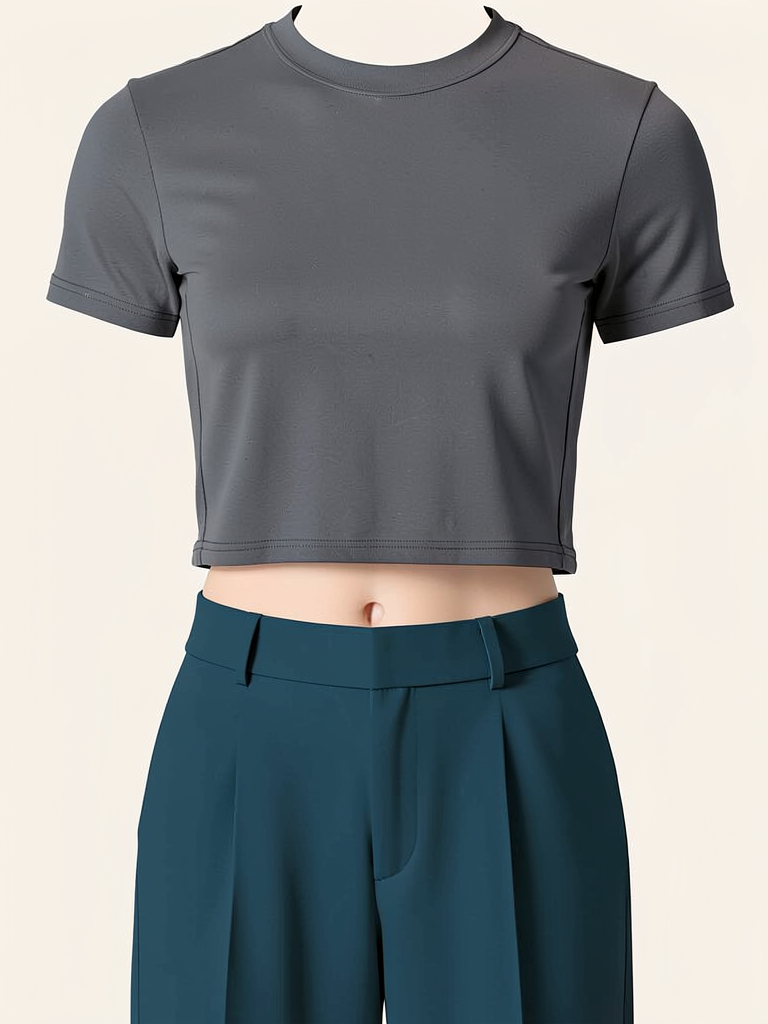
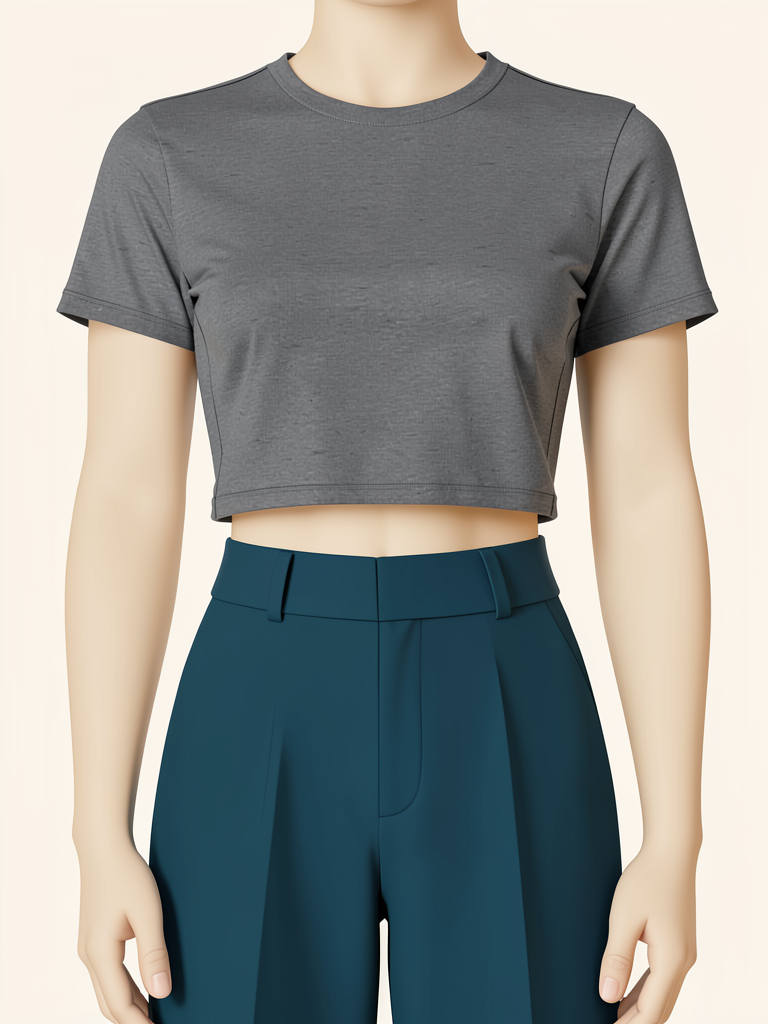
feat(p7-5-2): refresh approved prop references

diff --git a/docs/assets/part-07/chapter-05/p7_5_2_generate_no_style_prop_masters.py b/docs/assets/part-07/chapter-05/p7_5_2_generate_no_style_prop_masters.py
@@ -1,5 +1,5 @@
 #!/usr/bin/env python3
-"""Generate selected prompt-only candidates for Mira's prop references."""
+"""Generate selected no-style candidates for Mira's prop references."""
 
 from __future__ import annotations
 
@@ -10,11 +10,14 @@ from pathlib import Path
 
 import torch
 from diffusers import Flux2KleinPipeline
+from PIL import Image
 
 
 ROOT = Path(__file__).resolve().parent
 MODEL_ID = "black-forest-labs/FLUX.2-klein-4B"
+PROP_SEED = 62294
 DEFAULT_REPORT = ROOT / "p7-5-2-prop-generation-candidate-review.json"
+CROP_TOP_WAIST_REFERENCE = ROOT / "p7-5-2-outfit-crop-top-waist-reference.png"
 
 JACKET_COMMON_CONTRACT = (
     "One isolated very short white cropped utility jacket in a clean {view} product view "
@@ -100,79 +103,98 @@ def layered_outfit_prompt(view: str) -> str:
 PROPS = {
     "jacket": {
         "id": "jacket",
-        "seed": 62280,
+        "seed": PROP_SEED,
         "output": "p7-5-2-no-style-prop-jacket-candidate.png",
         "size": (768, 1024),
         "prompt": jacket_prompt("front"),
     },
     "jacket_rear": {
         "id": "jacket_rear",
-        "seed": 62284,
+        "seed": PROP_SEED,
         "output": "p7-5-2-no-style-prop-jacket-rear-candidate.png",
         "size": (768, 1024),
         "prompt": jacket_prompt("rear"),
     },
     "jacket_crop_top_front": {
         "id": "jacket_crop_top_front",
-        "seed": 62285,
+        "seed": PROP_SEED,
         "output": "p7-5-2-no-style-prop-jacket-crop-top-front-candidate.png",
         "size": (768, 1024),
-        "prompt": layered_outfit_prompt("front"),
+        "references": (CROP_TOP_WAIST_REFERENCE,),
+        "prompt": (
+            f"{layered_outfit_prompt('front')} Use the supplied crop-top-to-waistband reference as the authoritative "
+            "length contract for the gray crop top: keep its high hem and exposed midriff band; do not lengthen it to "
+            "the trouser waistband, navel, hips, or below the upper abdomen."
+        ),
     },
     "jacket_crop_top_rear": {
         "id": "jacket_crop_top_rear",
-        "seed": 62286,
+        "seed": PROP_SEED,
         "output": "p7-5-2-no-style-prop-jacket-crop-top-rear-candidate.png",
         "size": (768, 1024),
         "prompt": layered_outfit_prompt("rear"),
     },
     "complete_outfit_front_hip": {
         "id": "complete_outfit_front_hip",
-        "seed": 62287,
+        "seed": PROP_SEED,
         "output": "p7-5-2-no-style-prop-complete-outfit-front-hip-candidate.png",
         "size": (768, 1152),
-        "prompt": COMPLETE_OUTFIT_FRONT_HIP_CONTRACT,
+        "references": (CROP_TOP_WAIST_REFERENCE,),
+        "prompt": (
+            f"{COMPLETE_OUTFIT_FRONT_HIP_CONTRACT} Use the supplied crop-top-to-waistband reference as the authoritative "
+            "gray crop-top length contract. Keep its high hem and exposed midriff band; do not lengthen it to the trouser "
+            "waistband, navel, hips, or below the upper abdomen."
+        ),
     },
     "complete_outfit_rear_hip": {
         "id": "complete_outfit_rear_hip",
-        "seed": 62288,
+        "seed": PROP_SEED,
         "output": "p7-5-2-no-style-prop-complete-outfit-rear-hip-candidate.png",
         "size": (768, 1152),
         "prompt": COMPLETE_OUTFIT_REAR_HIP_CONTRACT,
     },
     "trousers": {
         "id": "trousers",
-        "seed": 62281,
+        "seed": PROP_SEED,
         "output": "p7-5-2-no-style-prop-trousers-candidate.png",
         "size": (768, 1024),
         "prompt": "One isolated pair of deep teal blue high-waisted wide-leg trousers in a clean front view on a plain off-white background. Use one blue-dominant dark teal base color, neither green turquoise nor gray. Belt loops, center fly, crisp vertical seams, straight wide legs, and hems above the shoe collar. Clean product illustration. No person, hanger, text, logo, or other object.",
     },
     "shoes": {
         "id": "shoes",
-        "seed": 62282,
+        "seed": PROP_SEED,
         "output": "p7-5-2-no-style-prop-shoes-candidate.png",
         "size": (768, 768),
         "prompt": "One matching pair of plain white low-top lace-up sneakers, arranged in a clean three-quarter product view on a plain off-white background. Rounded toe caps, white laces, white rubber soles, and minimal stitching. Clean product illustration. No person, text, logo, or other object.",
     },
     "crossbody_bag": {
         "id": "crossbody_bag",
-        "seed": 62283,
+        "seed": PROP_SEED,
         "output": "p7-5-2-no-style-prop-crossbody-bag-candidate.png",
         "size": (768, 768),
         "prompt": "One isolated compact deep-navy woven-canvas crossbody bag in a clean three-quarter front view on a plain off-white background. Small horizontal rounded flap, visible textile weave, stitched seams, reinforced strap tabs, charcoal adjustable canvas strap, and one small silver clasp. Clean product illustration. No leather, person, text, logo, or other object.",
     },
     "crop_top_waist_relation": {
         "id": "crop_top_waist_relation",
-        "seed": 64929,
+        "seed": PROP_SEED,
         "output": "p7-5-2-no-style-prop-gray-cropped-top-candidate.png",
         "size": (768, 1024),
-        "prompt": "Front apparel detail from shoulders through upper hips on a featureless neutral fashion torso against an off-white background. A charcoal-gray regular-fit micro-crop crew-neck T-shirt follows the upper torso with moderate ease: natural shoulder seams at the shoulders, standard short sleeves, clean vertical side seams, and a straight hem. Its hem ends high across the upper abdomen, sixteen centimeters above the navel. Deep teal-blue high-waisted wide-leg trousers have a waistband positioned at the navel. A clear sixteen-centimeter horizontal band of bare midriff visibly separates the cropped hem from the waistband. The short crop length and clean regular fit are the focus. Clean product illustration; no face, hands, text, logo, or other clothing.",
+        "prompt": "Front apparel detail from shoulders through upper hips on a featureless neutral fashion torso against an off-white background. A charcoal-gray regular-fit ultra-short micro-crop crew-neck T-shirt follows the upper torso with moderate ease: natural shoulder seams at the shoulders, standard short sleeves, clean vertical side seams, and a straight hem. Its hem ends immediately below the lower ribcage, twenty centimeters above the navel-height trouser waistband. Deep teal-blue high-waisted wide-leg trousers have a waistband positioned at the navel. A clear twenty-centimeter horizontal band of bare midriff visibly separates the cropped hem from the waistband. Treat this ultra-short crop hem and wide bare-midriff band as mandatory geometry: do not lengthen the crop top to the waistband, navel, hips, upper abdomen, or below the lower ribcage, and do not reduce or remove the exposed band. The ultra-short crop length and clean regular fit are the focus. Clean product illustration; no face, hands, text, logo, or other clothing.",
     },
 }
 
 
 def prompt_word_count(text: str) -> int:
     return len(text.split())
+
+
+def load_reference_images(paths: tuple[Path, ...]) -> list[Image.Image]:
+    """Load the approved crop-length input used by selected front apparel targets."""
+    images = []
+    for path in paths:
+        with Image.open(path) as source:
+            images.append(source.convert("RGB"))
+    return images
 
 
 def main() -> None:
@@ -194,6 +216,15 @@ def main() -> None:
     )
     args = parser.parse_args()
 
+    missing = [
+        path.name
+        for prop_id in args.targets
+        for path in PROPS[prop_id].get("references", ())
+        if not path.is_file()
+    ]
+    if missing:
+        raise FileNotFoundError(", ".join(missing))
+
     if not torch.cuda.is_available():
         raise RuntimeError("CUDA is required")
 
@@ -210,15 +241,19 @@ def main() -> None:
         prop = PROPS[prop_id]
         started = time.monotonic()
         width, height = prop["size"]
-        image = pipe(
-            prompt=prop["prompt"],
-            width=width,
-            height=height,
-            num_inference_steps=12,
-            guidance_scale=1.0,
-            generator=torch.Generator(device="cpu").manual_seed(prop["seed"]),
-            max_sequence_length=256,
-        ).images[0]
+        reference_paths = prop.get("references", ())
+        generation_inputs = {
+            "prompt": prop["prompt"],
+            "width": width,
+            "height": height,
+            "num_inference_steps": 12,
+            "guidance_scale": 1.0,
+            "generator": torch.Generator(device="cpu").manual_seed(prop["seed"]),
+            "max_sequence_length": 256,
+        }
+        if reference_paths:
+            generation_inputs["image"] = load_reference_images(reference_paths)
+        image = pipe(**generation_inputs).images[0]
         output = ROOT / prop["output"]
         image.save(output)
         elapsed = round(time.monotonic() - started, 2)
@@ -229,6 +264,7 @@ def main() -> None:
                 "prompt": prop["prompt"],
                 "prompt_word_count": prompt_word_count(prop["prompt"]),
                 "seed": prop["seed"],
+                "references": [path.name for path in reference_paths],
                 "elapsed_seconds": elapsed,
             }
         )
@@ -238,8 +274,8 @@ def main() -> None:
         json.dumps(
             {
                 "status": "review_required",
-                "purpose": "Generate selected prompt-only prop-reference candidates without a style-image or style prompt input.",
-                "input_policy": "prompt only; no style, face, character, or existing prop image input",
+                "purpose": "Generate selected no-style prop-reference candidates.",
+                "input_policy": "No style, face, or character input. The front layered and complete-outfit targets may use the approved crop-top-to-waistband reference.",
                 "requested_targets": args.targets,
                 "model": {"id": MODEL_ID, "runtime": "Diffusers Flux2KleinPipeline sequential CPU offload"},
                 "runs": runs,

diff --git a/docs/assets/part-07/chapter-05/p7_5_2_refine_fullbody_face_props.py b/docs/assets/part-07/chapter-05/p7_5_2_refine_fullbody_face_props.py
@@ -39,23 +39,23 @@ APPROVED_BODY_REFERENCES = {
     "rear": ROOT / "p7-5-2-fullbody-rear-reference.png",
 }
 LAYERED_OUTFIT_REFERENCE_BY_VIEW = {
-    "front": ROOT / "p7-5-2-prop-reference-v2-jacket-crop-top-front.png",
-    "front_quarter": ROOT / "p7-5-2-prop-reference-v2-jacket-crop-top-front.png",
-    "profile": ROOT / "p7-5-2-prop-reference-v2-jacket-crop-top-front.png",
-    "rear": ROOT / "p7-5-2-prop-reference-v2-jacket-crop-top-rear.png",
+    "front": ROOT / "p7-5-2-prop-reference-jacket-crop-top-front.png",
+    "front_quarter": ROOT / "p7-5-2-prop-reference-jacket-crop-top-front.png",
+    "profile": ROOT / "p7-5-2-prop-reference-jacket-crop-top-front.png",
+    "rear": ROOT / "p7-5-2-prop-reference-jacket-crop-top-rear.png",
 }
 COMPLETE_OUTFIT_REFERENCE_BY_VIEW = {
-    "front": ROOT / "p7-5-2-prop-reference-v2-complete-outfit-front-hip.png",
-    "front_quarter": ROOT / "p7-5-2-prop-reference-v2-complete-outfit-front-hip.png",
-    "profile": ROOT / "p7-5-2-prop-reference-v2-complete-outfit-front-hip.png",
-    "rear": ROOT / "p7-5-2-prop-reference-v2-complete-outfit-rear-hip.png",
+    "front": ROOT / "p7-5-2-prop-reference-complete-outfit-front-hip.png",
+    "front_quarter": ROOT / "p7-5-2-prop-reference-complete-outfit-front-hip.png",
+    "profile": ROOT / "p7-5-2-prop-reference-complete-outfit-front-hip.png",
+    "rear": ROOT / "p7-5-2-prop-reference-complete-outfit-rear-hip.png",
 }
 PROPS = {
     "layered_jacket_crop_top": {
         "instruction": "Add the supplied white cropped utility-jacket outfit layer.",
     },
     "crossbody_bag": {
-        "path": ROOT / "p7-5-2-prop-reference-v2-crossbody-bag.png",
+        "path": ROOT / "p7-5-2-prop-reference-crossbody-bag.png",
         "instruction": "Add the approved deep-navy canvas crossbody bag and strap.",
     },
     "complete_outfit": {
@@ -72,11 +72,6 @@ FACE_FINAL_VIEW_RULES = {
     "front_quarter": (
         "For this three-quarter face, turn both pupils and the visible gaze toward the same side as the nose bridge "
         "and nose tip. Do not leave the eyes facing front while the nose is turned."
-    ),
-    "profile": (
-        "For this profile forehead check, preserve the elongated forehead above the brow, a continuous unbroken hairline, "
-        "and one controlled short fringe ending above the eyebrow. Do not expose a blank or receded forehead, split the "
-        "fringe into extra bangs, or change the forehead-to-brow proportion."
     ),
 }
 LAYERED_OUTFIT_VIEW_RULES = {
@@ -139,11 +134,10 @@ def unique_run_stem(prefix: str, view: str, run_id: str, seed: int) -> str:
 def prop_reference_paths(prop_id: str, view: str) -> tuple[Path, ...]:
     if prop_id == "complete_outfit":
         if view == "profile":
-            # A side view needs both garment faces plus the approved front crop-length contract.
+            # A side view needs both garment faces to preserve the jacket body panel.
             return (
                 COMPLETE_OUTFIT_REFERENCE_BY_VIEW["front"],
                 COMPLETE_OUTFIT_REFERENCE_BY_VIEW["rear"],
-                LAYERED_OUTFIT_REFERENCE_BY_VIEW["front"],
             )
         return (COMPLETE_OUTFIT_REFERENCE_BY_VIEW[view],)
     if prop_id == "layered_jacket_crop_top":
@@ -156,12 +150,9 @@ def build_outfit_prompt(view: str, prop_ids: tuple[str, ...]) -> str:
         return (
             "Refine the supplied full-body reference into the same woman in a side-profile studio image. "
             "Preserve pose, hair-to-sole framing, dark teal trousers, and white low-top sneakers. "
-            "Use the supplied front jacket-crop-top layer and front complete-outfit reference as the authoritative crop-length "
-            "contract: the white jacket hem and charcoal-gray crop top end high above the trouser waistband, leaving the same "
-            "narrow bare-midriff band seen in those front references. Do not lengthen either crop to the waistband, hip, or below "
-            "the approved front cropped hem. From the supplied front and rear outfit references, render a white cropped utility "
-            "jacket as the visible outer torso layer: jacket body from collar to cropped hem, side-back panel, and one long cuffed "
-            "sleeve. Keep the charcoal-gray crop top as a narrow inner layer at the open front. Place the deep-navy bag at the "
+            "From the supplied front and rear outfit references, render a white cropped utility jacket as the visible "
+            "outer torso layer: jacket body from collar to cropped hem, side-back panel, and one long cuffed sleeve. "
+            "Keep the charcoal-gray crop top as a narrow inner layer at the open front. Place the deep-navy bag at the "
             "outer left rearward hip with its strap behind the jacket. One person, complete limbs, no text or labels."
         )
     prop_instructions = " ".join(PROPS[prop_id]["instruction"] for prop_id in prop_ids)

diff --git a/docs/assets/part-07/chapter-05/p7_5_2_generate_fullbody_turnaround_references.py b/docs/assets/part-07/chapter-05/p7_5_2_generate_fullbody_turnaround_references.py
@@ -21,8 +21,8 @@ TIMESTAMP_FORMAT = "%Y%m%dT%H%M%S%f%z"
 FACE_TURNAROUND = ROOT / "p7-5-2-face-turnaround-reference.png"
 OUTFIT_REFERENCES = [
     ROOT / "p7-5-2-outfit-crop-top-waist-reference.png",
-    ROOT / "p7-5-2-prop-reference-v2-trousers.png",
-    ROOT / "p7-5-2-prop-reference-v2-shoes.png",
+    ROOT / "p7-5-2-prop-reference-trousers.png",
+    ROOT / "p7-5-2-prop-reference-shoes.png",
 ]
 REFERENCES = [FACE_TURNAROUND, *OUTFIT_REFERENCES]
 IMAGE_WIDTH = 768
@@ -33,7 +33,10 @@ VIEW_RULES = {
     "profile": (
         "true side profile, with one near arm beside the torso and the far arm hidden; "
         "use a natural narrow standing stance with both shoes visibly separated along the horizontal axis, "
-        "the near foot slightly forward and the far foot slightly back, so neither shoe or leg occludes the other"
+        "the near foot slightly forward and the far foot slightly back, so neither shoe or leg occludes the other; "
+        "preserve the elongated forehead above the brow, a continuous unbroken hairline, and the deep viewer-right side "
+        "part with one full short fringe sweeping across the viewer-left forehead and ending above the eyebrow; do not "
+        "expose a blank, receded, or chopped-off forehead, split the fringe into extra bangs, or insert gaps in the hairline"
     ),
     "rear": "rear view, facing away from the camera",
 }

diff --git a/docs/assets/part-07/chapter-05/p7_5_2_generate_dynamic_alley_oop_style_test.py b/docs/assets/part-07/chapter-05/p7_5_2_generate_dynamic_alley_oop_style_test.py
@@ -31,10 +31,11 @@ REFERENCE_INPUTS = (
     ("fullbody_rear", ROOT / "p7-5-2-fullbody-rear-reference.png"),
 )
 BASKETBALL_JUMP_PROMPT = (
-    "Same woman from the supplied references, full body. Rooftop half court, airborne basketball jump: her right arm holds "
-    "one basketball high overhead. Left arm balances, left knee leads, right leg trails. Exactly one small hoop and backboard "
-    "sit far behind her, well separated from the ball. Low front-left camera, "
-    "modest Dutch tilt, diagonal frame. One woman, one ball, one hoop, no text, border, or panels."
+    "Same woman from the supplied references, full body, with the deep petrol-teal jaw-length bob retained; no ponytail, "
+    "long hair, or hair accessory. Airborne alley-oop dunk: her fully visible right hand grips exactly one basketball high "
+    "above her head toward one hoop, with the ball separated from her hair and fingers. Her left arm balances, left knee "
+    "leads forward, right leg trails behind, and both legs and shoes are fully visible. Low front-left camera, modest Dutch "
+    "tilt, diagonal frame. One woman, one ball, one hoop, no text, border, or panels."
 )
 
 

diff --git a/docs/assets/part-07/chapter-05/p7_5_3_refine_storyboard_four_outputs.py b/docs/assets/part-07/chapter-05/p7_5_3_refine_storyboard_four_outputs.py
@@ -31,8 +31,8 @@ LINEART = ROOT / "p7-5-3-flux2-klein-storyboard-approved-guide-lineart.png"
 CANNY = ROOT / "p7-5-3-flux2-klein-storyboard-approved-guide-canny.png"
 DEPTH = ROOT / "p7-5-3-flux2-klein-storyboard-approved-guide-depth.png"
 FACE_REFERENCE = ROOT / "p7-5-2-face-turnaround-codeformer-front-2x.png"
-OUTFIT_FRONT = ROOT / "p7-5-2-prop-reference-v2-complete-outfit-front-hip.png"
-OUTFIT_REAR = ROOT / "p7-5-2-prop-reference-v2-complete-outfit-rear-hip.png"
+OUTFIT_FRONT = ROOT / "p7-5-2-prop-reference-complete-outfit-front-hip.png"
+OUTFIT_REAR = ROOT / "p7-5-2-prop-reference-complete-outfit-rear-hip.png"
 
 
 GUIDE_LABELS = {

diff --git a/management/release-notes/sections/part-07/P7-5.2.md b/management/release-notes/sections/part-07/P7-5.2.md
@@ -15,8 +15,12 @@
 - 리파인 생성기의 얼굴 identity 입력을 방향별 CodeFormer `2x` 패널로 분리했다. 정면·전면 쿼터·측면은 대응 얼굴 패널을 각각 사용하고, 후면은 얼굴 보정 단계를 건너뛴다. 승인 전신 참조와 통합 착장 참조로 만든 run `9794ed66`, seed `62377`의 네 방향 리파인 PNG는 원고에 검토 후보로 기록했으며 승인 전신 자산을 대체하지 않는다.
 - 전면 쿼터 리파인 얼굴 보정 prompt에 눈동자·시선과 콧대·코끝이 같은 방향을 향하도록 하는 계약을 추가했다. 코가 회전했는데 눈만 정면을 향하는 결함을 검수 대상으로 두고, 새 쿼터 후보에서 별도 확인한다.
 - 후면 리파인에도 `p7-5-2-face-turnaround-codeformer-rear-2x.png`를 rear-head identity 입력으로 적용했다. 후두부 단발·헤어라인·목선만 복원하고 눈·코·입을 만들지 않도록 prompt와 실행 기록을 분리했다.
-- 리파인 identity prompt의 머리색을 정면 얼굴 생성 prompt와 같은 `Deep petrol-teal`로 통일했다. 측면에는 이마-눈썹 비례, 끊기지 않는 헤어라인, 눈썹 위에서 끝나는 짧은 앞머리를 검수하는 전용 계약을 추가했다.
-- 측면 통합 착장 리파인에는 전면 자켓-크롭탑 레이어와 전면 통합 착장 기준을 추가 입력으로 사용했다. 두 기준의 높은 크롭 밑단과 좁은 맨살 띠를 유지하고, 상의가 바지 허리선·골반까지 길어지는 출력을 금지했다.
+- 리파인 identity prompt의 머리색을 정면 얼굴 생성 prompt와 같은 `Deep petrol-teal`로 통일했다.
+- 방향 전신 생성기의 측면 prompt에 정면 기준의 deep viewer-right 옆가르마와 viewer-left 이마를 가로지르는 눈썹 위 짧은 앞머리, 끊기지 않는 헤어라인, 이마-눈썹 비례를 유지하고 빈·후퇴·절단된 이마선과 앞머리 갈라짐을 금지하는 계약을 추가했다. 리파인 생성기에는 이마선 보강을 넣지 않는다.
+- 소품 생성기의 `crop_top_waist_relation`은 입력 이미지를 쓰지 않고, 밑단을 갈비뼈 바로 아래로 올리고 허리선까지 `20cm` 맨살 띠를 남기는 ultra-short crop prompt 계약으로만 생성한다. 상의가 상복부·바지 허리선·골반까지 길어지는 출력을 금지한다.
+- seed `62294`로 다시 만든 크롭탑-허리선 후보를 사람 승인해 `p7-5-2-outfit-crop-top-waist-reference.png` 안정 자산으로 대체했다. 전면 자켓-크롭탑 레이어와 전면 통합 착장 후보는 이 승인 PNG를 크롭 길이 입력으로 사용하며, 크롭탑-허리선 후보 자체는 계속 prompt만으로 생성한다.
+- 무화풍 앨리웁 prompt에 청록 턱선 단발 유지와 포니테일·긴 머리 금지, 공·손·머리 분리, 전후 도약 다리와 두 신발의 전체 노출, 공-림 사이 열린 코트 공간을 추가했다. seed `62382` 후보는 별도 사람 검수 대상이다.
+- 소품 생성기의 열 대상 seed를 모두 `62294`로 통일하고 같은 seed로 전체 후보를 재생성했다. 대상별 prompt·해상도는 유지하며, 같은 seed가 소품 간 동일한 결과를 뜻하지는 않는다.
 - 번역 반영 상태: 한국어 원문만 반영됨. 원문 기준 버전: `v2026.08.08`. 관련 자산: `p7-5-2-face-turnaround-reference.png`, `p7-5-2-fullbody-{front,front-quarter,profile,rear}-reference.png`, `p7_5_2_refine_fullbody_face_props.py`.
 
 ### v2026.08.07
@@ -78,7 +82,7 @@
 - 삭제된 v3 정면 앵커는 prompt만으로 재생성·사람 승인한 `p7-5-2-face-front-reference.png` 안정 자산으로 교체했다. 이후 얼굴 턴어라운드는 이 정면 기준을 앵커로 사용한다.
 - 소품 통합 생성기에 `jacket_rear` 대상을 추가했다. 이는 포켓·단추·가방·인물을 제외한 흰 등판·중심 등 솔기·소매·짧은 밑단만 생성해, 전면 자켓 기준을 후면 전신에 오용하지 않는지 검수하는 review-only 후보다. 사람 승인 전에는 소품 manifest와 전신 보강 입력에 넣지 않는다.
 - 전신 얼굴·소품 보강기는 방향별 자켓 입력을 선택하도록 수정했다. 정면·전면 쿼터·측면은 승인 전면 자켓 기준을 유지하고, 후면만 `jacket_rear` 검수 후보를 사용한다. 실행 JSON에는 방향별로 실제 사용한 자켓 파일명을 남기며, 결과는 계속 review-only다.
-- high waist 크롭 길이와 평면 등판이 확인된 후면 자켓을 `p7-5-2-prop-reference-v2-jacket-rear.png`로 사람 승인해 소품 manifest에 추가했다. 전신 보강기의 후면 입력도 이 승인 자산으로 교체했으며, 보강 출력 자체의 사람 검수는 별도로 유지한다.
+- high waist 크롭 길이와 평면 등판이 확인된 후면 자켓을 `p7-5-2-prop-reference-jacket-rear.png`로 사람 승인해 소품 manifest에 추가했다. 전신 보강기의 후면 입력도 이 승인 자산으로 교체했으며, 보강 출력 자체의 사람 검수는 별도로 유지한다.
 - 전신 보강에서 자켓 몸판 대신 크롭탑과 흰 소매만 남은 결함을 분리하기 위해, 자켓과 크롭탑을 하나의 레이어 관계로 생성하는 전면·후면 torso-only 후보 대상을 추가했다. 이 소품은 두 옷의 경계와 크롭 길이의 입력 계약을 검수하는 후보이며, 승인 전에는 manifest에 넣지 않는다.
 - 자켓-크롭탑 전면·후면 torso-only 레이어 PNG를 사람 승인해 manifest에 추가했다. 전신 보강기의 기본 소품도 자켓 단독에서 이 방향별 레이어 기준으로 교체했으며, 보강 출력은 별도 사람 검수 대상으로 유지한다.
 - 후면 레이어 PNG는 더 짧은 회색 크롭탑이 자켓 밑단 아래에 보이는 길이 계약 오류로 승인 취소하고 manifest에서 제거했다. 새 후면 후보는 회색 상의가 흰 자켓 등판·밑단에 완전히 가려지는지 다시 검수한다.
